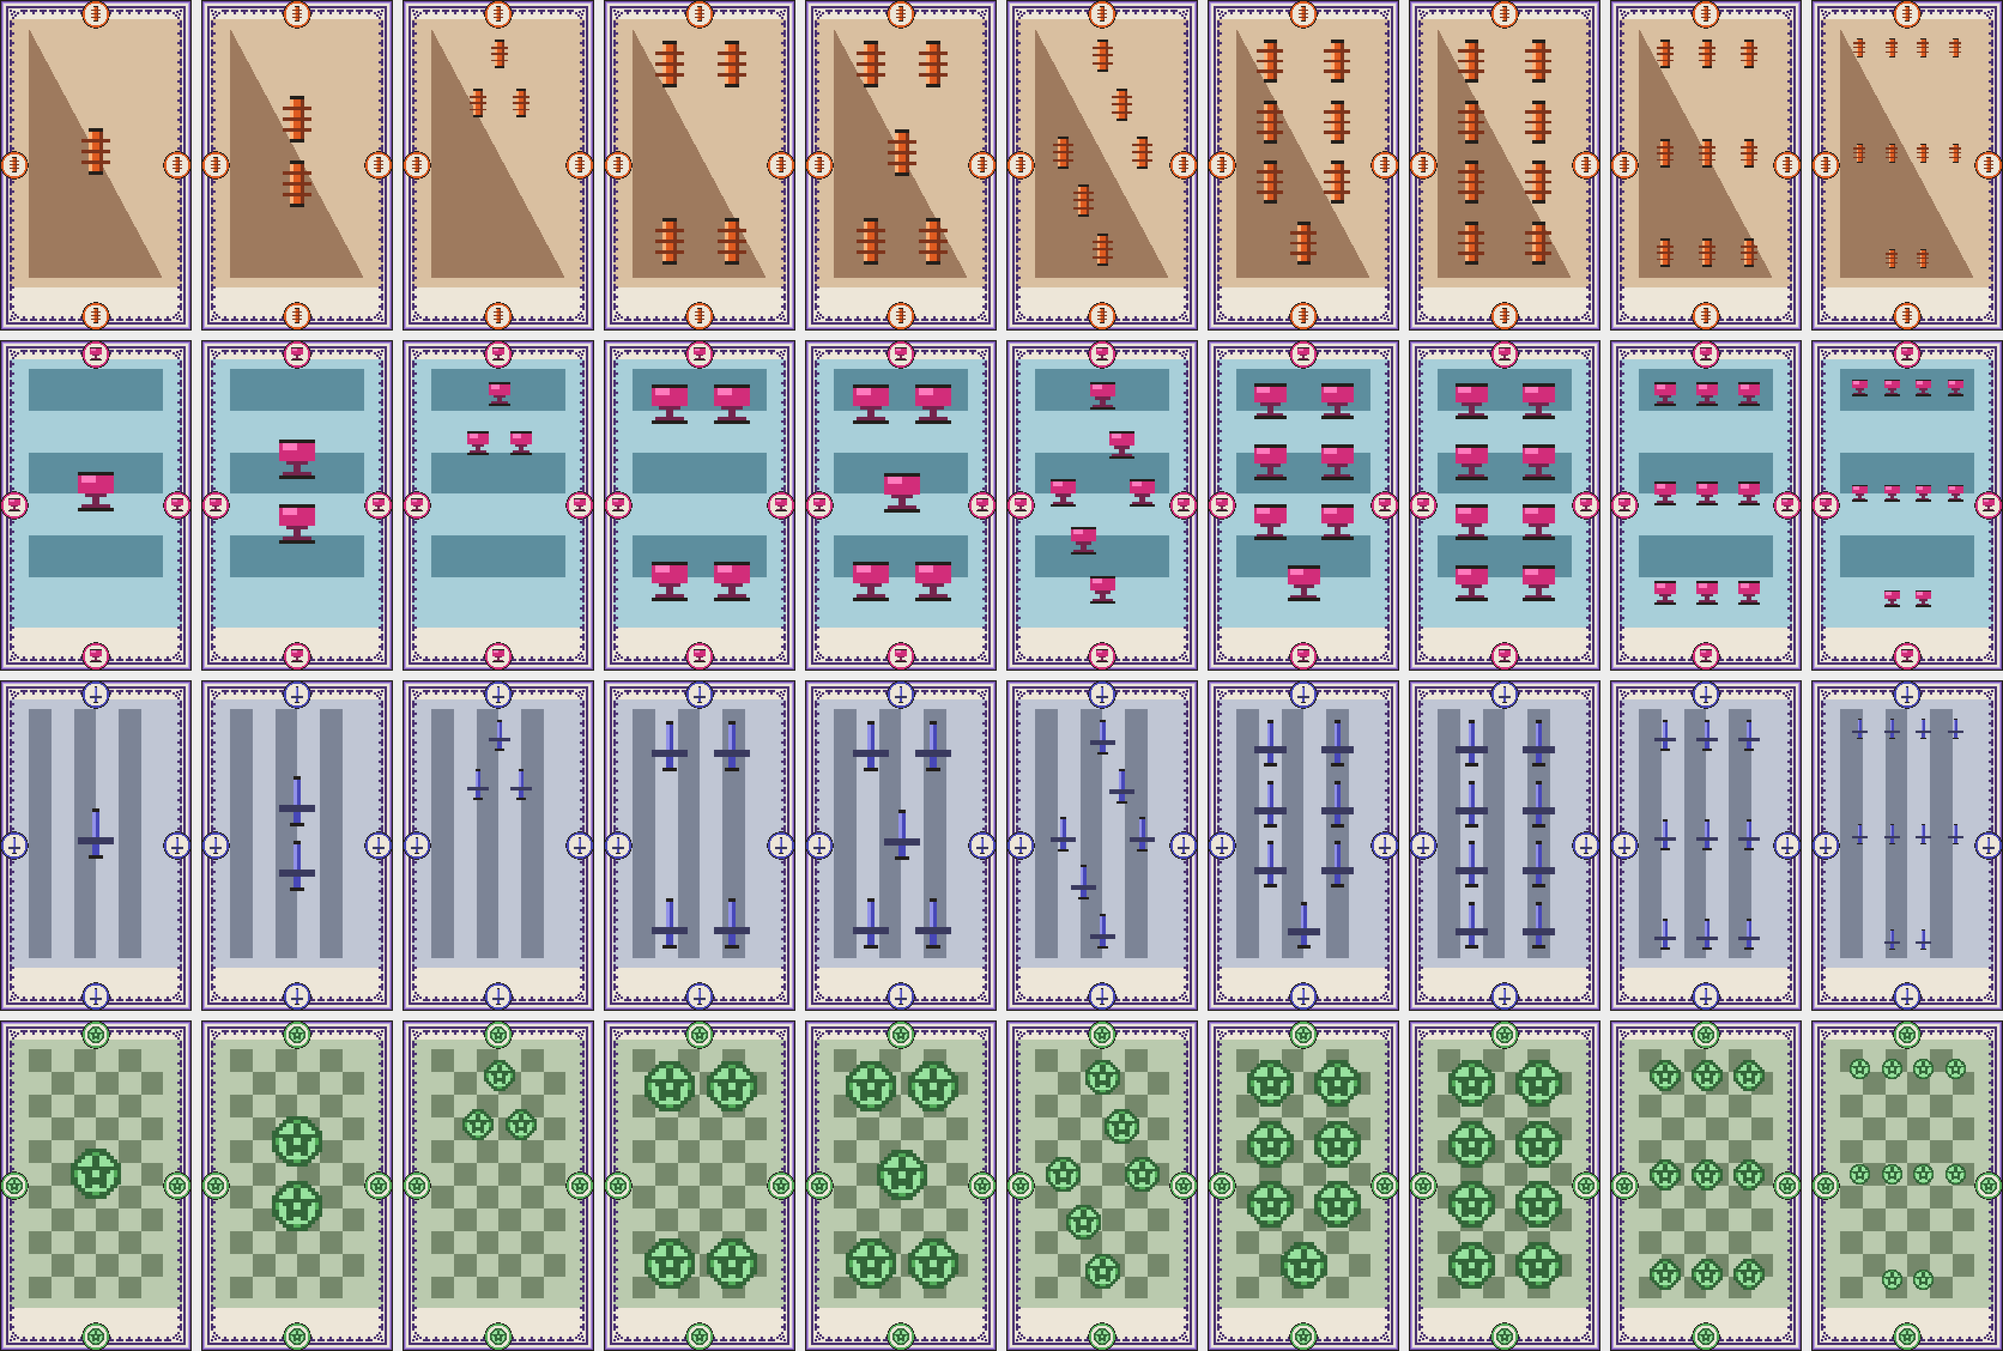
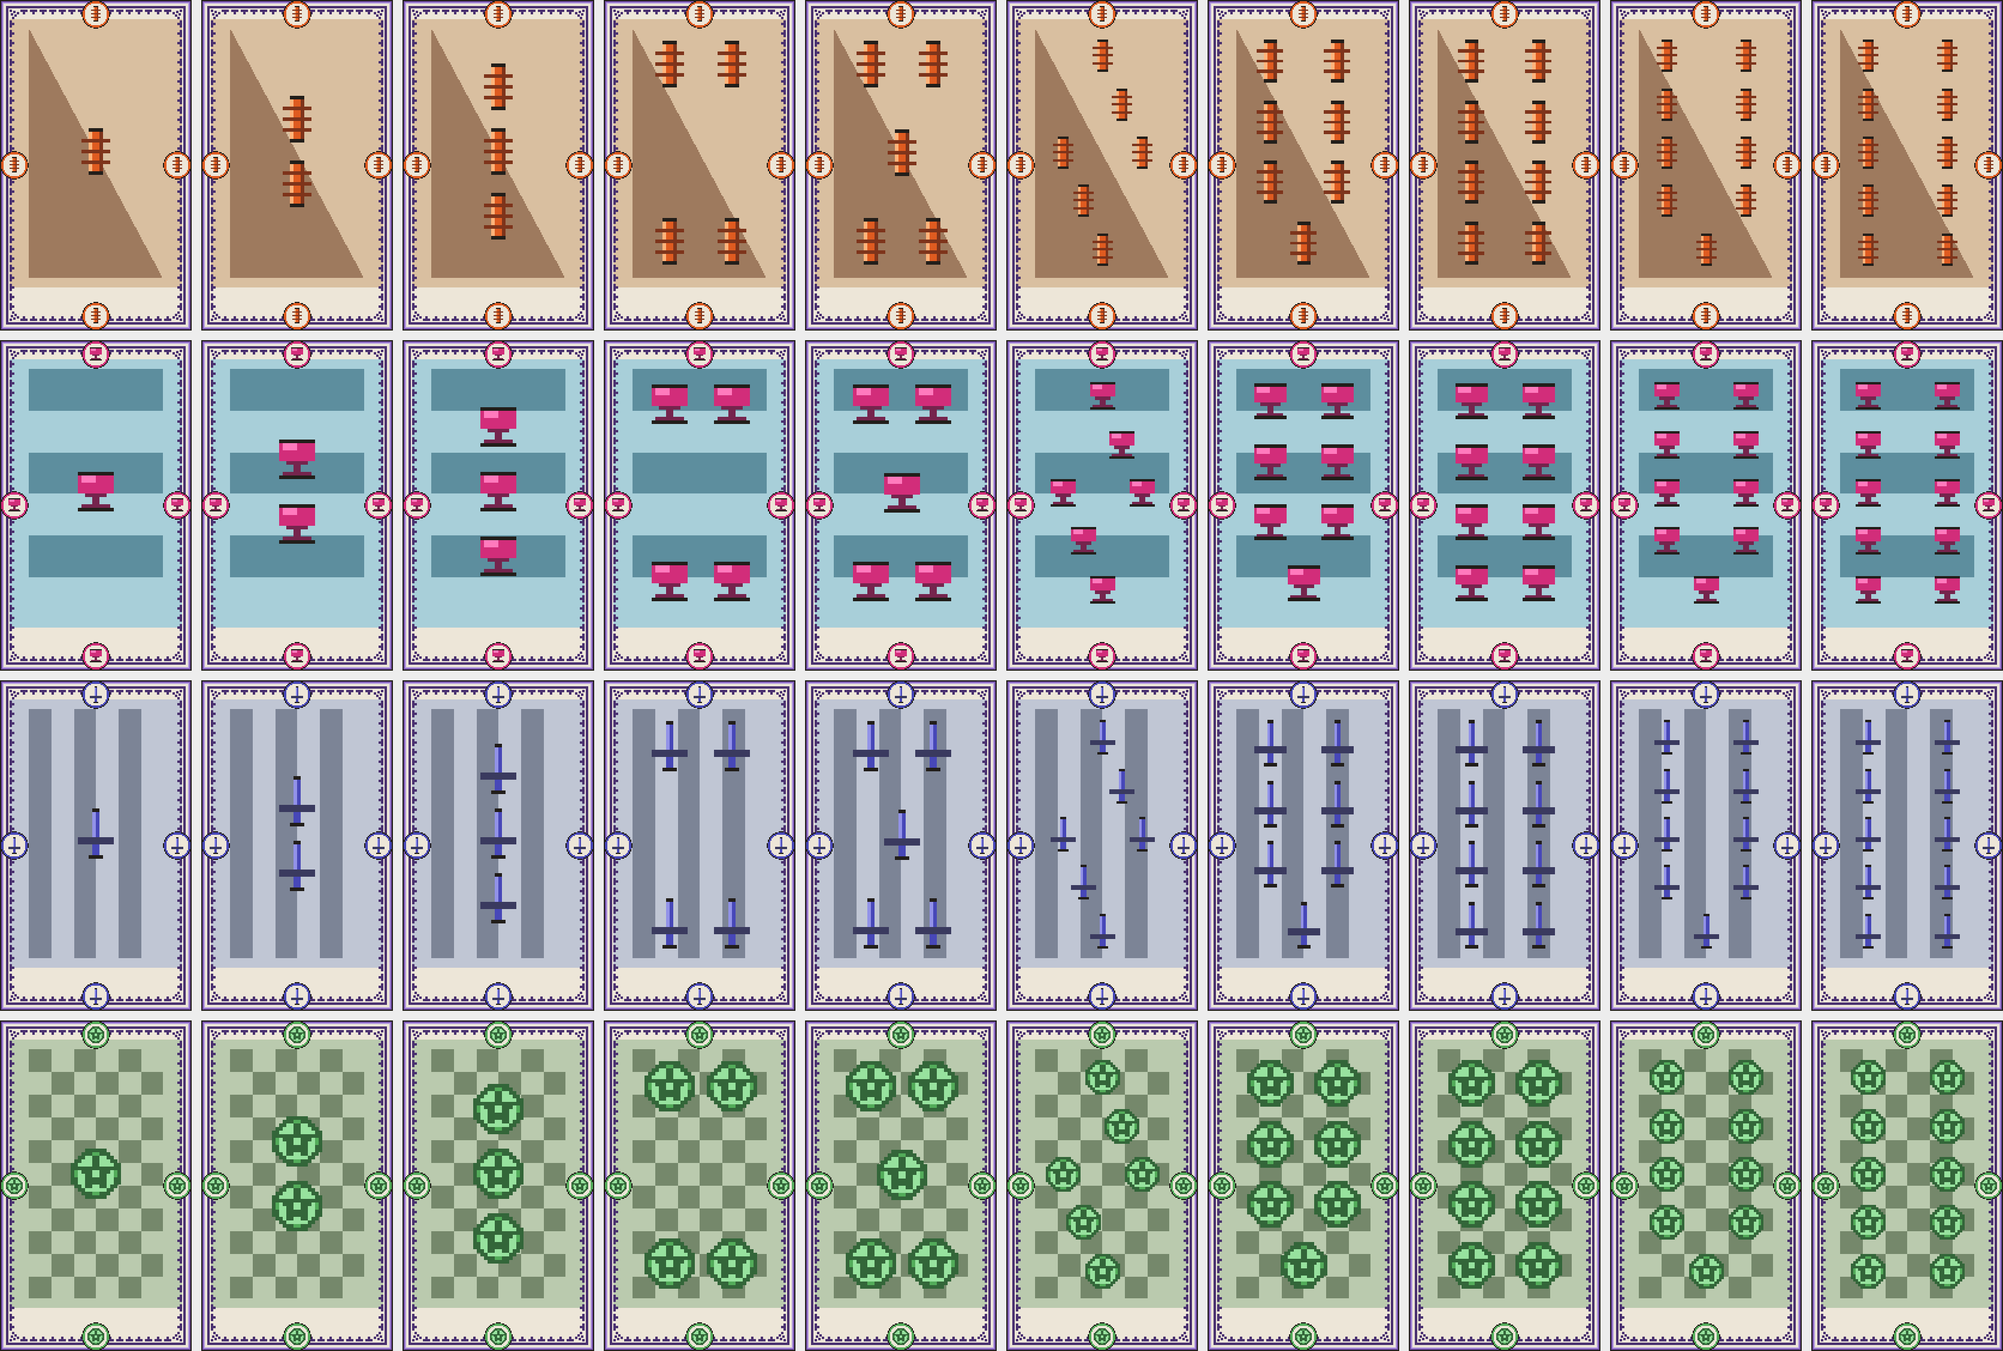
Centre pip arrangements and size upper ranks bigger; diamond terminal
Three measured fixes to pip placement:

- CENTRING. Every candidate arrangement is recentred (bounding box → card
  centre) before fitting. A raw chevron sits entirely in the top half, so
  rank 3 rendered tiny (29px) and 62px above centre; it is now 48px and
  centred. Worst vertical offset across all layouts × ranks is now 0px.

- GRID COLUMN SEARCH. `square` was picking sqrt(n) columns, which in a tall
  window crams the upper ranks (square-10 at 4 columns → 20px pips). It now
  searches every column count and keeps the biggest-pip one — two columns
  here — so square-9/10 go from 29/20px to 34/34px. The search stays correct
  for any deck geometry instead of a hard-coded rule of thumb.

- DIAMOND TERMINAL, no grid fallback. A shape offers a family of in-character
  variants (fold counts, grid columns) and the biggest-pip one wins. A
  genuinely-2D shape that still can't hold a high count (a cross of 8+ is
  wider than the window allows at a countable size) folds into a DIAMOND — a
  rhombus outline, which reaches the minimum size for every rank — rather
  than a rectangular grid. A cross stays a + through rank 7, then folds into
  a diamond at 8-10.

Every layout now places every rank 1..10 in character at a good size, all
centred, all buffered. Drops the now-unused sqrt-column `_square`/`_max_cols`.
Refreshes the minor-arcana example sheet.

Claude-Session: https://claude.ai/code/session_01JGSWcdF7V5saxhDbYBxxkE

diff --git a/src/arcana/layout.py b/src/arcana/layout.py
@@ -39,6 +39,10 @@ _FIT_FLOOR = 0.5      # scale search never probes below this
 _LINEAR = {"fess": "h", "pale": "v", "bend": "d", "bend-sinister": "a",
            "chevron": "chevron", "pall": "pall"}
 
+# Grid layouts whose column count is searched for the biggest pips (not authored
+# as a generator, since the arrangement is the search — see `_candidates`).
+_GRID = {"square"}
+
 _REGISTRY: dict[str, LayoutFn] = {}
 
 
@@ -50,7 +54,7 @@ def register(name: str) -> Callable[[LayoutFn], LayoutFn]:
 
 
 def names() -> list[str]:
-    return sorted(set(_REGISTRY) | set(_LINEAR))
+    return sorted(set(_REGISTRY) | set(_LINEAR) | _GRID)
 
 
 class InvalidPipLayout(ValueError):
@@ -63,8 +67,8 @@ class InvalidPipLayout(ValueError):
                 if best_scale else "nothing")
         super().__init__(
             f"pip layout {name!r} can't place {count} pips at the minimum size in "
-            f"the {geo.art_w}x{geo.art_h} art window — not even folded or as the "
-            f"compact grid. Best fit is {best} with a {gap}px gap, but min_scale is "
+            f"the {geo.art_w}x{geo.art_h} art window — not even folded or as a "
+            f"diamond. Best fit is {best} with a {gap}px gap, but min_scale is "
             f"{min_scale:.1f}x ({round(PIP_BASE * min_scale)}px). Fix: lower "
             f"pip.min_scale or pip.gap in deck.yaml, or reduce the count.")
         self.name, self.count = name, count
@@ -79,6 +83,19 @@ def _pip_inset(geo: Geometry) -> tuple[int, int]:
 def _normalize(pts: list[NPoint]) -> list[NPoint]:
     m = max((max(abs(u), abs(v)) for u, v in pts), default=1.0)
     return pts if m <= 0 else [(u / m, v / m) for u, v in pts]
+
+
+def _recenter(pts: list[NPoint]) -> list[NPoint]:
+    """Centre a candidate's bounding box on the origin, then normalise so the
+    limiting axis reaches ±1. Centring is what puts an arrangement in the MIDDLE
+    of the card — a raw chevron sits entirely in the top half, so without this it
+    renders tiny and high; normalising after lets the fit spread it to the frame."""
+    if not pts:
+        return pts
+    xs = [u for u, _ in pts]
+    ys = [v for _, v in pts]
+    cx, cy = (min(xs) + max(xs)) / 2, (min(ys) + max(ys)) / 2
+    return _normalize([(u - cx, v - cy) for u, v in pts])
 
 
 def _grid(count: int, cols: int) -> list[NPoint]:
@@ -102,6 +119,15 @@ def _grid(count: int, cols: int) -> list[NPoint]:
         if placed >= count:
             break
     return pts
+
+
+def _terminal(count: int, geo: Geometry):
+    """Overflow arrangement for a shape that can't hold `count` pips in its own
+    form: fold into a DIAMOND (a rhombus outline), never a rectangular grid.
+    The outline — unlike a filled diamond, whose packing has an inherent tight
+    pair at some counts — spaces its pips around the perimeter, so it reaches the
+    minimum size for every rank 1..10 while staying bilaterally symmetric."""
+    yield _recenter(_diamond(count, geo))
 
 
 def _split(count: int, fold: int) -> list[int]:
@@ -147,8 +173,9 @@ def _pallel(size: int, apex_v: float) -> list[NPoint]:
 def _fold(axis: str, count: int, fold: int) -> list[NPoint]:
     """`count` pips folded into `fold` PARALLEL copies of the ordinary `axis`.
     Every fold translates a same-size copy (constant internal pitch) and offsets
-    it, so the pip+gap buffer holds within and between copies. Maximal folding
-    degenerates to a grid — the terminal that guarantees any rank fits."""
+    it, so the pip+gap buffer holds within and between copies — more folds give
+    each copy fewer, wider-spaced pips, which both fits the count and keeps the
+    pips large."""
     fold = max(1, min(fold, count))
     if axis == "h":                                    # horizontal rows
         return _grid(count, math.ceil(count / fold))
@@ -173,12 +200,19 @@ def _fold(axis: str, count: int, fold: int) -> list[NPoint]:
 
 
 def _candidates(name: str, count: int, geo: Geometry):
-    """Normalised centre-sets to try; fold variants for the foldable ordinaries."""
+    """In-character centre-sets to try, all recentred on the card. `arrange` picks
+    the one with the biggest pips: ordinaries offer their fold variants, the grid
+    offers every column count (2 usually wins in a tall window). No rectangular
+    fallback — a shape that can't hold the count in its own form is handled by
+    `_terminal` (a diamond) in `arrange`."""
     if name in _LINEAR:
         for f in range(1, count + 1):
-            yield _fold(_LINEAR[name], count, f)
+            yield _recenter(_fold(_LINEAR[name], count, f))
+    elif name in _GRID:
+        for cols in range(1, count + 1):
+            yield _recenter(_grid(count, cols))
     elif name in _REGISTRY:
-        yield _REGISTRY[name](count, geo)
+        yield _recenter(_REGISTRY[name](count, geo))
     else:
         raise KeyError(f"unknown pip layout {name!r}; have {names()}")
 
@@ -233,28 +267,32 @@ def _fit_scale(cent: list[NPoint], geo: Geometry, gap: int,
 def arrange(name: str, count: int, geo: Geometry, *, gap: int = PIP_GAP,
             min_scale: float = PIP_MIN_SCALE,
             max_scale: float = PIP_MAX_SCALE) -> tuple[list[Point], float]:
-    """Place `count` pips for `name`: return (centres_px, scale). Pip size is
-    continuous (nearest-scaled at render), chosen as the LARGEST that keeps every
-    pip a `gap` from its neighbours and the inner border; foldable ordinaries try
-    their fold variants and the biggest-pip one wins. Raises `InvalidPipLayout`
-    if `min_scale` can't be met even so."""
+    """Place `count` pips for `name`: return (centres_px, scale). Every candidate
+    is centred on the card, and the pip size is continuous (nearest-scaled at
+    render), chosen as the LARGEST that keeps every pip a `gap` from its
+    neighbours and the inner border. A shape offers in-character variants (fold
+    counts, grid columns) and the biggest-pip one wins; if none reaches
+    `min_scale`, the pips fold into a DIAMOND (`_terminal`) rather than a grid.
+    Raises `InvalidPipLayout` only if even the diamond can't be placed."""
     if count < 1:
         return [], 0.0
-    best_scale, best_pts, reach = 0.0, None, 0.0
-    for cent in _candidates(name, count, geo):
-        scale, pts = _fit_scale(cent, geo, gap, min_scale, max_scale)
-        reach = max(reach, scale)
-        if pts is not None and scale > best_scale:
-            best_scale, best_pts = scale, pts
-    if best_pts is not None:
-        return best_pts, best_scale
-    # The shape can't hold this many pips even at min_scale — fall back to the
-    # compact 2-column grid so every layout works at every rank. The grid keeps
-    # the buffer and ≥ min_scale; the shape is preserved wherever it does fit.
-    if name != "square":
-        scale, pts = _fit_scale(_square(count, geo), geo, gap, min_scale, max_scale)
-        if pts is not None:
-            return pts, scale
+
+    def best_of(cands):
+        bs, bp = 0.0, None
+        for cent in cands:
+            scale, pts = _fit_scale(cent, geo, gap, min_scale, max_scale)
+            nonlocal reach
+            reach = max(reach, scale)
+            if pts is not None and scale > bs:
+                bs, bp = scale, pts
+        return bs, bp
+
+    reach = 0.0
+    scale, pts = best_of(_candidates(name, count, geo))   # in-character forms
+    if pts is None:
+        scale, pts = best_of(_terminal(count, geo))       # fold into a diamond
+    if pts is not None:
+        return pts, scale
     raise InvalidPipLayout(name, count, reach, gap, min_scale, geo)
 
 
@@ -320,41 +358,10 @@ def _bend(n: int, geo: Geometry) -> list[NPoint]:
 
 
 # ---------------------------------------------------------------- grids
-def _max_cols(geo: Geometry) -> int:
-    """How many minimum-size pips fit across the window — a narrow tall card like
-    tarot only takes two, so `square` becomes the classic 2-column pip stack."""
-    ix, _ = _pip_inset(geo)
-    pip = PIP_BASE * PIP_MIN_SCALE
-    usable = geo.art_w - 2 * (ix + PIP_GAP) - pip
-    return 1 if usable <= 0 else max(1, int(usable // (pip + PIP_GAP)) + 1)
-
-
-@register("square")
-def _square(n: int, geo: Geometry) -> list[NPoint]:
-    """Grid, column count capped to what fits the window (2 for tarot). A short
-    final row is centred so the card stays symmetric for odd counts."""
-    if n == 1:
-        return [(0.0, 0.0)]
-    cols = min(math.ceil(math.sqrt(n)), _max_cols(geo))
-    rows = math.ceil(n / cols)
-    xs = _lin(-1.0, 1.0, cols)
-    ys = _lin(-1.0, 1.0, rows)
-    pts: list[NPoint] = []
-    placed = 0
-    for r in range(rows):
-        in_row = min(cols, n - placed)
-        if in_row == cols:
-            row_xs = xs
-        elif in_row == 1:
-            row_xs = [0.0]
-        else:
-            span = (in_row - 1) / (cols - 1)      # centre the short row
-            row_xs = _lin(-span, span, in_row)
-        pts += [(x, ys[r]) for x in row_xs]
-        placed += in_row
-        if placed >= n:
-            break
-    return pts
+# `square` is a grid whose COLUMN COUNT is searched, not fixed: `_candidates`
+# offers every column count and `arrange` keeps the biggest-pip one. In a tall
+# tarot window that is reliably two columns (measured), but the search keeps it
+# correct for any deck geometry instead of hard-coding a rule of thumb.
 
 
 @register("pile")

diff --git a/tests/test_layout.py b/tests/test_layout.py
@@ -68,13 +68,31 @@ def test_every_layout_works_at_every_rank(geo):
             _assert_placement(centres, k, geo)
 
 
-def test_unfittable_shape_falls_back_to_grid(geo):
-    """A 2-D ordinary that can't hold a high count in its own shape still returns
-    a valid, buffered placement — the compact grid — instead of raising."""
+def test_unfittable_shape_folds_into_diamond(geo):
+    """A 2-D ordinary that can't hold a high count in its own shape folds into a
+    diamond — never a rectangular grid — so it stays a valid, buffered, symmetric
+    placement instead of raising."""
     centres, k = layout.arrange("cross", 10, geo)
     assert len(centres) == 10
     assert layout.PIP_MIN_SCALE <= k <= layout.PIP_MAX_SCALE
     _assert_placement(centres, k, geo)
+    xs = sorted(x for x, _ in centres)
+    mirror = sorted(geo.art_w - x for x, _ in centres)
+    assert all(abs(a - b) <= 1 for a, b in zip(xs, mirror))     # symmetric diamond
+
+
+def test_arrangements_are_centred(geo):
+    """Every arrangement sits in the MIDDLE of the card: its bounding box centre
+    is the window centre (±2px of rounding). A raw chevron sits in the top half,
+    so this guards the recentring that keeps low ranks from rendering tiny/high."""
+    cx0, cy0 = geo.art_w / 2, geo.art_h / 2
+    for name in layout.names():
+        for n in range(1, 11):
+            centres, _ = layout.arrange(name, n, geo)
+            xs = [x for x, _ in centres]
+            ys = [y for _, y in centres]
+            assert abs((min(xs) + max(xs)) / 2 - cx0) <= 2, (name, n)
+            assert abs((min(ys) + max(ys)) / 2 - cy0) <= 2, (name, n)
 
 
 def test_symmetry_where_feasible(geo):

diff --git a/tests/test_deck.py b/tests/test_deck.py
@@ -178,9 +178,9 @@ def test_pip_card_invalid_layout_raises(ctx):
                                pip_cfg={"min_scale": 6.0})
 
 
-def test_pip_card_unfittable_shape_grids(ctx):
-    """A 2-D ordinary that can't hold a high count in its own shape renders as
-    the compact grid terminal rather than raising — every layout works at every
+def test_pip_card_unfittable_shape_diamonds(ctx):
+    """A 2-D ordinary that can't hold a high count in its own shape renders by
+    folding into a diamond rather than raising — every layout works at every
     rank."""
     pal, geo, cfg, els = ctx
     m = compose.build_pip_card(pal, geo, els, 10, "cross", cfg["suit_pips"]["cups"])

diff --git a/AGENTS.md b/AGENTS.md
@@ -200,31 +200,43 @@ all layouts × counts 1–10). `bend` is the deliberate exception — heraldry's
 is a diagonal ordinary, so its x/y correlation is the point and reflection
 changes the pip set.
 
-**Sizing is auto-fit, and every pip is countable.** `layout.arrange` returns
-both the centres *and* a pip scale: it picks the LARGEST scale (continuous, from
-`min_scale` to `max_scale`) that keeps every pip a `gap` from its neighbours AND
-a `gap` inside the invisible inner border. So size is a function of the
-distribution *and* the rank together — three pips `in pale` come out bigger than
-three `in chevron`, which packs tighter. The buffer is the load-bearing property:
-pips never touch or overlap, so a reader can always count the rank. The knobs
-(`gap`, `min_scale`, `max_scale`) live in `deck.yaml`'s `pip:` block ("the
-tank"); engine defaults are `gap=6`, `min_scale=1.2` (≈19px — 1× reads too small),
-`max_scale=3`.
+**Sizing is auto-fit, centred, and every pip is countable.** `layout.arrange`
+returns both the centres *and* a pip scale. Every candidate arrangement is first
+**recentred** — its bounding box is moved to the card centre — because a raw
+chevron sits entirely in the top half and would otherwise render tiny and high.
+Then the scale is the LARGEST (continuous, `min_scale`..`max_scale`) that keeps
+every pip a `gap` from its neighbours AND a `gap` inside the invisible inner
+border. Size is therefore a function of the distribution *and* the rank — three
+pips `in pale` come out bigger than three `in chevron`. The buffer is the
+load-bearing property: pips never touch or overlap, so a reader can always count
+the rank. The knobs (`gap`, `min_scale`, `max_scale`) live in `deck.yaml`'s
+`pip:` block ("the tank"); engine defaults are `gap=6`, `min_scale=1.2` (≈19px —
+1× reads too small), `max_scale=3`.
 
-**Every layout works at every rank, guaranteed by the known pip size.** At
-`min_scale` a pip + gap is a fixed 25.2px pitch, and the usable window holds a
-4×8 grid of them — so any rank ≤ 32 fits *some* arrangement. Getting there while
-keeping a shape's character is **folding**: an ordinary that won't fit as one
-line/chevron splits into F *parallel* copies, each holding fewer (wider-spaced)
-pips, offset by pip+gap. Copies are TRANSLATED, never scaled — scaling a copy
-inward crushes its own spacing (the bug that made a double-chevron worse than a
-single). Pushed to its limit, folding degenerates into the grid, so the compact
-grid is the **terminal fold**: a genuinely-2D shape that can't hold a high count
-(a `cross` +8 pips is wider than the window allows at a countable size) resolves
-to the grid rather than erroring. `layout.arrange` only raises `InvalidPipLayout`
-when even the grid can't meet `min_scale` — e.g. an absurd `pip.min_scale` — and
-the error names the best achievable size and the fixes. `validate_pip_layouts`
-(called at `deck.load_deck`) checks the whole shipped mapping up front.
+**Every layout works at every rank, in character.** A shape offers a *family* of
+in-character variants and `arrange` keeps the biggest-pip one:
+
+- **Ordinaries fold.** A line (`fess`/`pale`/`bend`) or arm ordinary
+  (`chevron`/`pall`) that won't fit as a single copy splits into F *parallel*
+  copies, each holding fewer (wider-spaced) pips. Copies are TRANSLATED, never
+  scaled — scaling a copy inward crushes its own spacing, the bug that once made
+  a double-chevron worse than a single. Folding both keeps the count fitting
+  *and* keeps pips large (fewer pips per copy ⇒ more room each).
+- **Grids search their column count.** `square` tries every column count and
+  keeps the largest-pip one — in a tall tarot window that is reliably two
+  columns, but the search stays correct for any deck geometry instead of a
+  hard-coded rule (a `sqrt(n)` guess picked too many columns and shrank the
+  upper ranks badly).
+- **Everything else folds into a diamond.** A genuinely-2D shape that can't hold
+  a high count in its own form (a `cross` of 8+ is wider than the window allows
+  at a countable size) folds into a **diamond** — a rhombus *outline*, which
+  reaches the minimum size for every rank, never a rectangular grid. This is the
+  one shape-changing step, and it is deliberate ("a cross folds into a diamond").
+
+`layout.arrange` raises `InvalidPipLayout` only when even the diamond can't be
+placed — e.g. an absurd `pip.min_scale` — and the error names the best achievable
+size and the fixes. `validate_pip_layouts` (called at `deck.load_deck`) checks
+the whole shipped mapping up front.
 
 ### Field designs (minor arcana)
 
